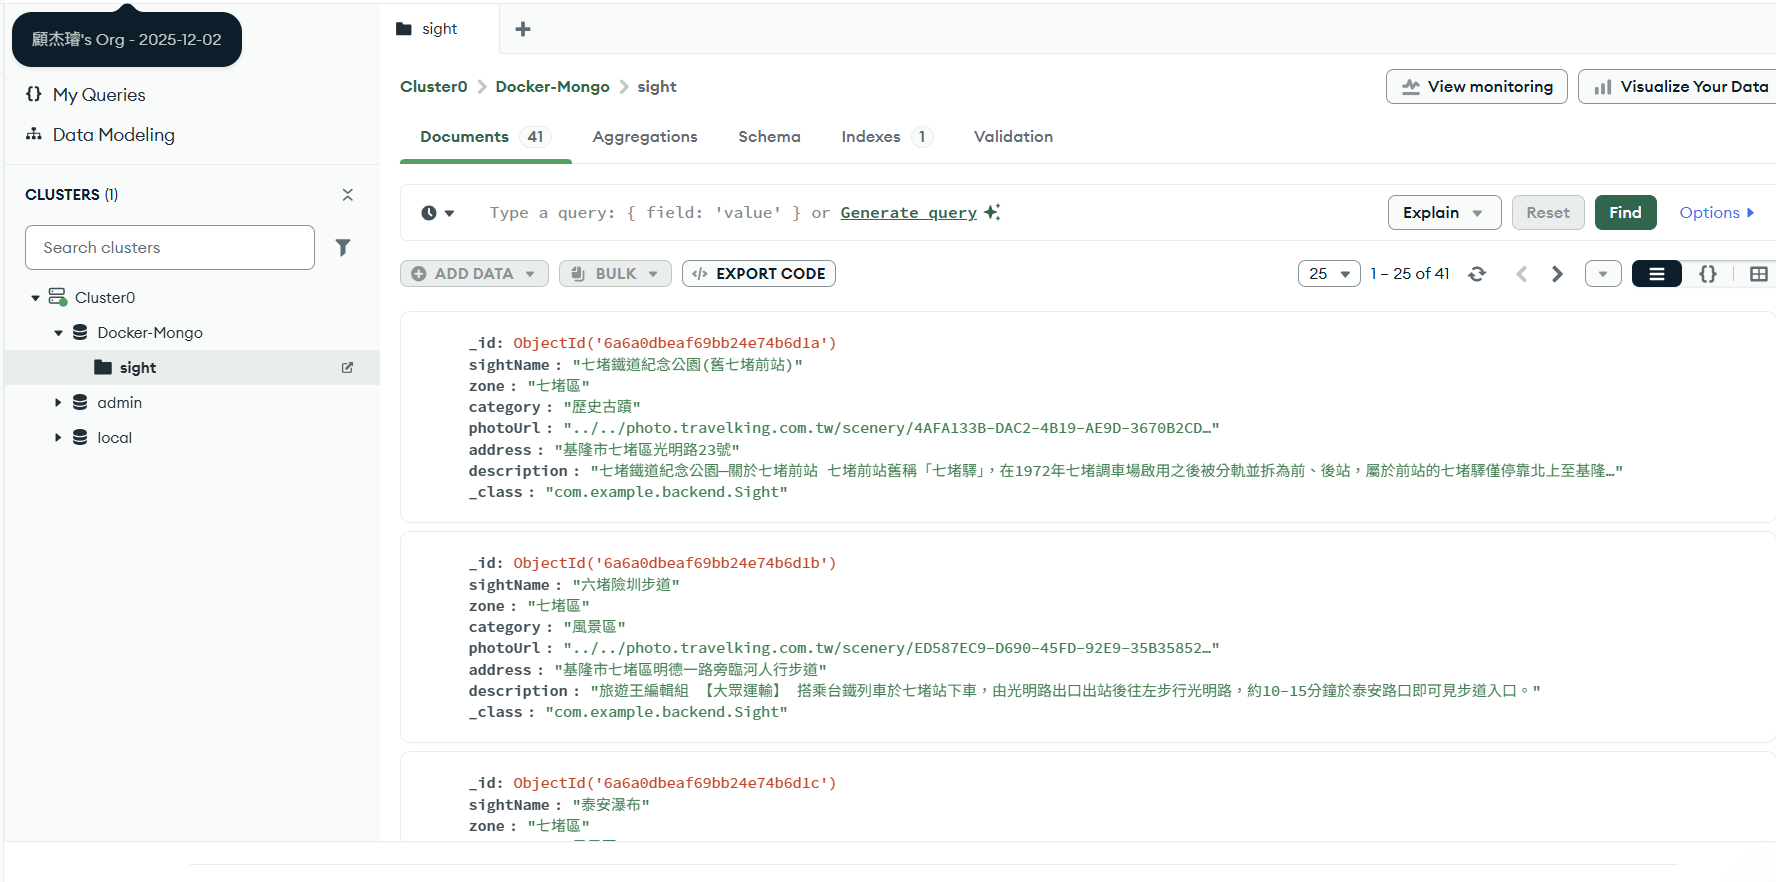
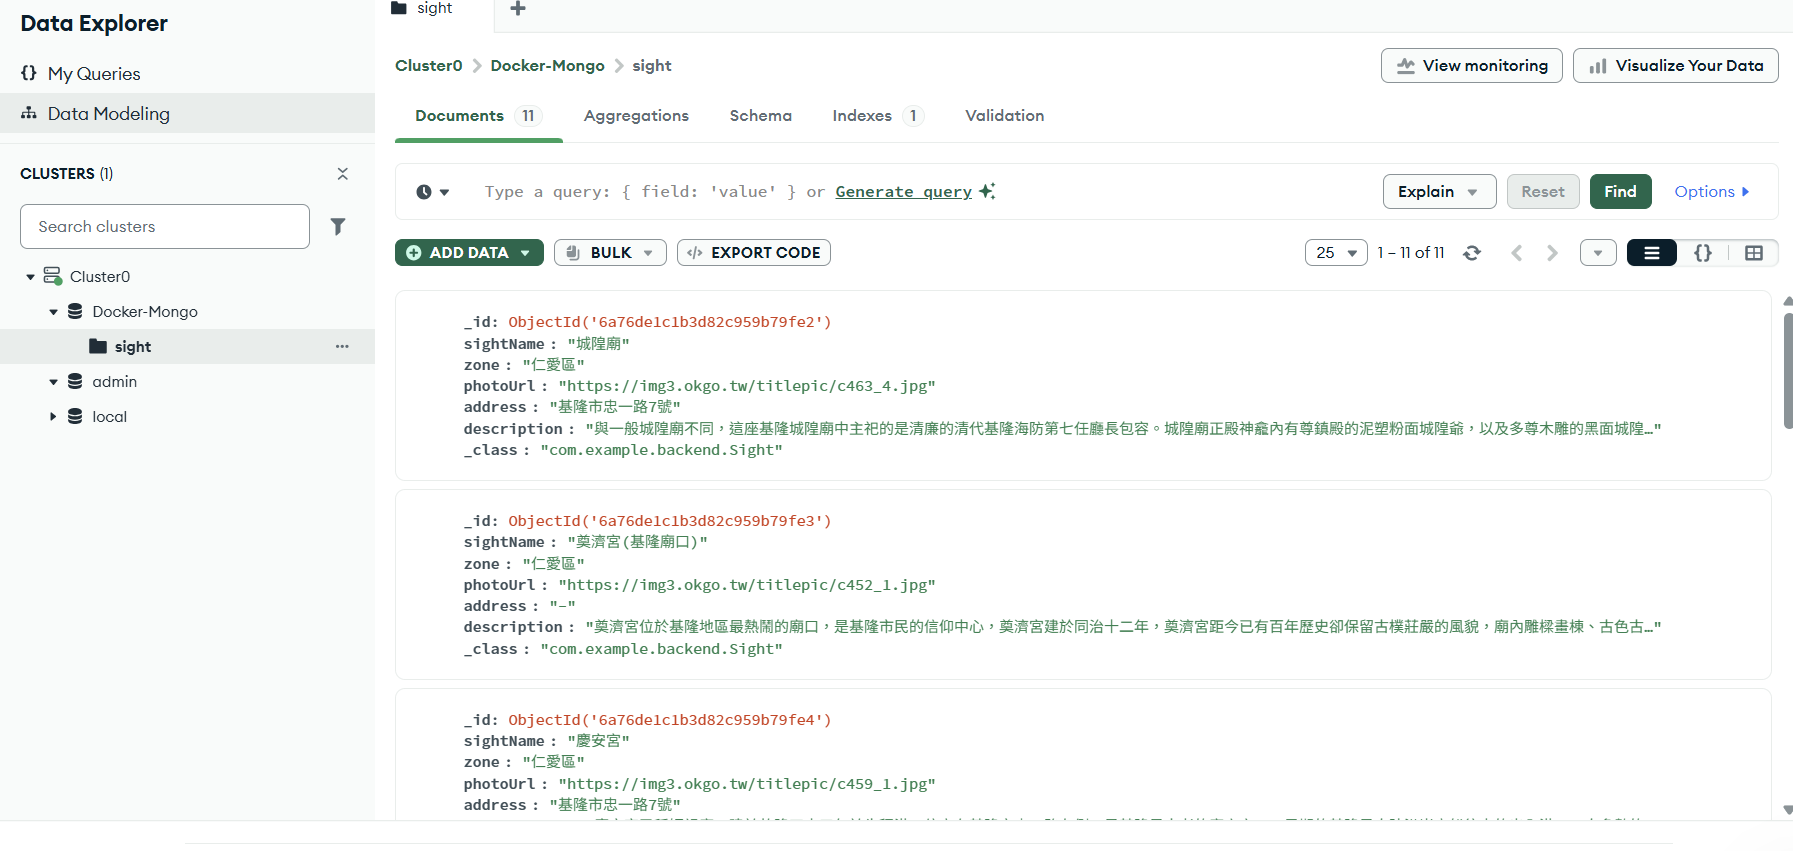
fix the broken website

diff --git a/hw4/frontend/index.html b/hw4/frontend/index.html
@@ -83,7 +83,6 @@
                         $("#sight").html('<div class = "row row-cols-1 row-cols-md-3 g-4"></div>');
                         
                         $.each(response, function(index, value) {
-                            let mapUrl = `https://www.google.com/maps/search/?api=1&query=${encodeURIComponent(value.address)}`
                             let targetId = "detail-" + index; 
                             let content = `
                                 <div class="card shadow-sm mb-3 h-100">
@@ -91,13 +90,12 @@
                                         <h2 class="card-title h5">${value.sightName}</h2>
                                         <hr>
                                         <ul class="list-unstyled text-muted small">
-                                            <li><strong>分類：</strong>${value.category}</li>
                                             <li><strong>地區：</strong>${value.zone}</li>
                                         </ul>
                                         
                                         <div class="mt-auto">
                                             <p class="mb-2"><strong>地址：</strong> ${value.address}</p>
-                                            <a href="https://www.google.com/maps/search/?api=1&query=${encodeURIComponent(value.address)}" 
+                                            <a href="https://www.google.com/maps/search/?api=1&query=${"基隆市" + encodeURIComponent(value.sightName)}" 
                                             target="_blank" class="btn btn-sm btn-outline-success w-100 mb-3">
                                             點我過去
                                             </a>

diff --git a/hw4/backend/src/main/java/com/example/backend/KeelungSightsCrawler.java b/hw4/backend/src/main/java/com/example/backend/KeelungSightsCrawler.java
@@ -11,43 +11,97 @@ public class KeelungSightsCrawler {
 
     public KeelungSightsCrawler() {}
 
-    public Sight[] getItems(String zone) {
-        String url = "https://www.travelking.com.tw/tourguide/taiwan/keelungcity/" + zone + "/";
+    public Sight[] getItems(String town) {
+
+        String url = "https://okgo.tw/buty/keelung.html";
+
         try {
             Document doc = Jsoup.connect(url).get();
-            Elements links = doc.select("#guide-point .box a[href]");
-            Sight sights[] = new Sight[links.size()];
+            Elements links = doc.select("#"+ town + "  ul  li a[href]");
+            Sight[] sights = new Sight[links.size()];
 
             for (int i = 0;i < links.size();++i) {
-                String linkHref = links.get(i).absUrl("href");
+                String detailUrl = links.get(i).absUrl("href");
                 try {
-                    Document Newdoc = Jsoup.connect(linkHref).get();
-                    Sight s = new Sight();
-                    s.setSightName(Newdoc.select(".h1").text());
-                    s.setZone(doc.select(".this_title").text());
-                    s.setCategory(Newdoc.select("cite strong").text());
-                    Element elementUrl = Newdoc.select("#galleria .gpic img").first();
-                    String imgUrl;
-                    if (elementUrl != null) {
-                        imgUrl = elementUrl.attr("src");
-                    } else {
-                        imgUrl = "No PhotoUrl";
-                    }
+                    Document detail = Jsoup.connect(detailUrl).get();
 
-                    s.setPhotoUrl(imgUrl);
-                    s.setDescription(Newdoc.select(".text ").text());
-                    s.setAddress(Newdoc.select("#point_data span").text());
+                    Sight s = new Sight();
+                    //set name
+                    s.setSightName(detail.select(".sec3 h2").text());
+
+                    //set address
+                    String fullText = detail.select(".sec3").text();
+                    String address = "";
+                    if (fullText.contains("地址：")) {
+                        int startIndex = fullText.indexOf("地址：") + 3;
+                        int endIndex = fullText.indexOf("文章來源",startIndex);
+                        if (endIndex == -1) endIndex = startIndex;
+                        address = fullText.substring(startIndex,endIndex).trim();
+                    }
+                    s.setAddress(address);
+
+                    //set description
+                    s.setDescription(detail.select("div.sec3 > div:not(#FontSize):not(#Buty_View_PicSource)").text());
+
+                    //set photo url
+                    Element photoItem = detail.select(".sec3 #Buty_View_PicSource .pic img").first();
+                    if (photoItem != null) {
+                        s.setPhotoUrl(photoItem.attr("src"));
+                    } else {
+                        s.setPhotoUrl("-");
+                    }
+                    //set zone
+                    s.setZone(detail.select(".sec3 strong a[href*=town]").text());
 
                     sights[i] = s;
-
-                } catch (Exception e) {
-                    throw new RuntimeException(e);
+                }catch (Exception e) {
+                    System.err.println(e.getMessage());
+                    return new Sight[0];
                 }
             }
             return sights;
 
-        } catch (Exception e) {
-            throw new RuntimeException(e);
+        }catch (Exception e) {
+            System.err.println(e.getMessage());
+            return new Sight[0];
         }
+
+//        String url = "https://www.travelking.com.tw/tourguide/taiwan/keelungcity/" + zone + "/";
+//        try {
+//            Document doc = Jsoup.connect(url).get();
+//            Elements links = doc.select("#guide-point .box a[href]");
+//            Sight sights[] = new Sight[links.size()];
+//
+//            for (int i = 0;i < links.size();++i) {
+//                String linkHref = links.get(i).absUrl("href");
+//                try {
+//                    Document Newdoc = Jsoup.connect(linkHref).get();
+//                    Sight s = new Sight();
+//                    s.setSightName(Newdoc.select(".h1").text());
+//                    s.setZone(doc.select(".this_title").text());
+//                    s.setCategory(Newdoc.select("cite strong").text());
+//                    Element elementUrl = Newdoc.select("#galleria .gpic img").first();
+//                    String imgUrl;
+//                    if (elementUrl != null) {
+//                        imgUrl = elementUrl.attr("src");
+//                    } else {
+//                        imgUrl = "No PhotoUrl";
+//                    }
+//
+//                    s.setPhotoUrl(imgUrl);
+//                    s.setDescription(Newdoc.select(".text ").text());
+//                    s.setAddress(Newdoc.select("#point_data span").text());
+//
+//                    sights[i] = s;
+//
+//                } catch (Exception e) {
+//                    throw new RuntimeException(e);
+//                }
+//            }
+//            return sights;
+//
+//        } catch (Exception e) {
+//            throw new RuntimeException(e);
+//        }
     }
 }

diff --git a/hw4/backend/src/main/java/com/example/backend/SightService.java b/hw4/backend/src/main/java/com/example/backend/SightService.java
@@ -10,41 +10,9 @@ import java.util.Map;
 
 @Service
 public class SightService {
-
-    // private final  List<Sight> allsights = new ArrayList<>();
-
-    // public SightService () {
-    //     zoneMap.put("qidu", "七堵區");
-    //     zoneMap.put("zhongshan", "中山區");
-    //     zoneMap.put("zhongzheng", "中正區");
-    //     zoneMap.put("renai", "仁愛區");
-    //     zoneMap.put("anle", "安樂區");
-    //     zoneMap.put("xinyi", "信義區");
-    //     zoneMap.put("nuannuan", "暖暖區");
-
-    //     KeelungSightsCrawler crawler = new KeelungSightsCrawler();
-    //     String[] zones = {"qidu", "zhongshan", "zhongzheng", "renai", "anle", "xinyi", "nuannuan"};
-    //     for (String zone : zones) {
-    //         Sight[] sights = crawler.getItems(zone);
-    //         for (Sight sight : sights) {
-    //             if (sight != null) allsights.add(sight);
-    //         }
-    //     }
-    // }
-
-    // public List<Sight> getSightByZone(String zone) {
-    //     List<Sight> filtered = new ArrayList<>();
-    //     String target = zoneMap.get(zone);
-    //     for (Sight sight : allsights) {
-    //         if (sight.getZone().contains(target)) {
-    //             filtered.add(sight);
-    //         }
-    //     }
-    //     return filtered;
-    // }
     
-    private SightRepository repository;   
-    private KeelungSightsCrawler crawler;
+    private final SightRepository repository;
+    private final KeelungSightsCrawler crawler;
     private final Map<String,String> zoneMap = new HashMap<>();
     
     public SightService(SightRepository repository,KeelungSightsCrawler crawler){
@@ -69,9 +37,14 @@ public class SightService {
 
     public void initDatabase() {
         if (repository.count() == 0) {
-            String[] zones = {"qidu", "zhongshan", "zhongzheng", "renai", "anle", "xinyi", "nuannuan"};
-            for (String zone : zones) {
-                Sight[] sights = crawler.getItems(zone);
+//            String[] zones = {"qidu", "zhongshan", "zhongzheng", "renai", "anle", "xinyi", "nuannuan"};
+//            for (String zone : zones) {
+//                Sight[] sights = crawler.getItems(zone);
+//                repository.saveAll(Arrays.asList(sights));
+//            }
+            String[] towns = {"Town1-1","Town1-2","Town1-3","Town1-4","Town1-5","Town1-6","Town1-7"};
+            for (String town : towns) {
+                Sight[] sights = crawler.getItems(town);
                 repository.saveAll(Arrays.asList(sights));
             }
         }

diff --git a/hw4/backend/src/main/java/com/example/backend/Sight.java b/hw4/backend/src/main/java/com/example/backend/Sight.java
@@ -8,7 +8,6 @@ public class Sight implements java.io.Serializable {
     private String Id;
     private String sightName = null;
     private String zone = null;
-    private String category = null;
     private String photoUrl = null;
     private String address = null;
     private String description = null;
@@ -21,10 +20,6 @@ public class Sight implements java.io.Serializable {
 
     public String getZone() {
         return this.zone;
-    }
-
-    public String getCategory() {
-        return this.category;
     }
 
     public String getPhotoUrl() {
@@ -47,10 +42,6 @@ public class Sight implements java.io.Serializable {
         this.zone = zone;
     }
 
-    public void setCategory(String category) {
-        this.category = category;
-    }
-
     public void setPhotoUrl(String photoUrl) {
         this.photoUrl = photoUrl;
     }
@@ -68,7 +59,6 @@ public class Sight implements java.io.Serializable {
         return "Sight{" +
                 "sightName='" + this.sightName + '\'' +
                 ", zone='" + this.zone + '\'' +
-                ", category='" + this.category + '\'' +
                 ", photoUrl='" + this.photoUrl + '\'' +
                 ", address='" + this.address + '\'' +
                 ", description='" + this.description + '\'' +
